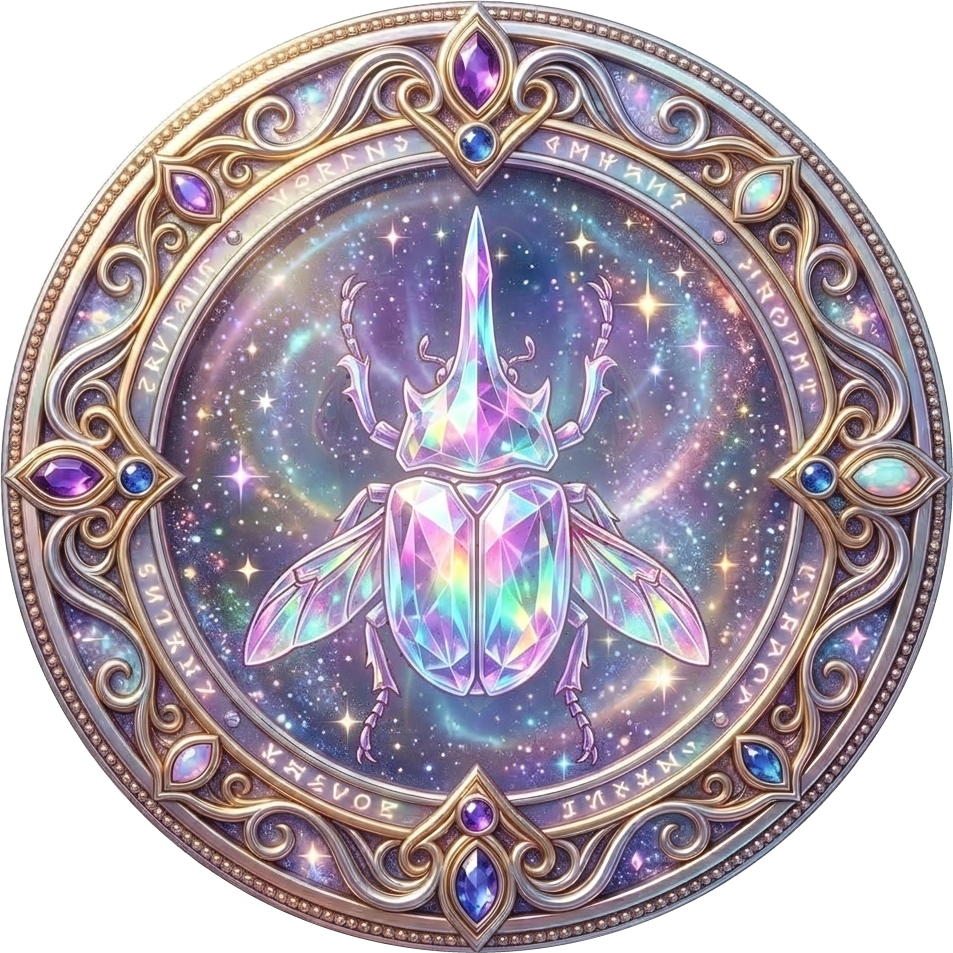
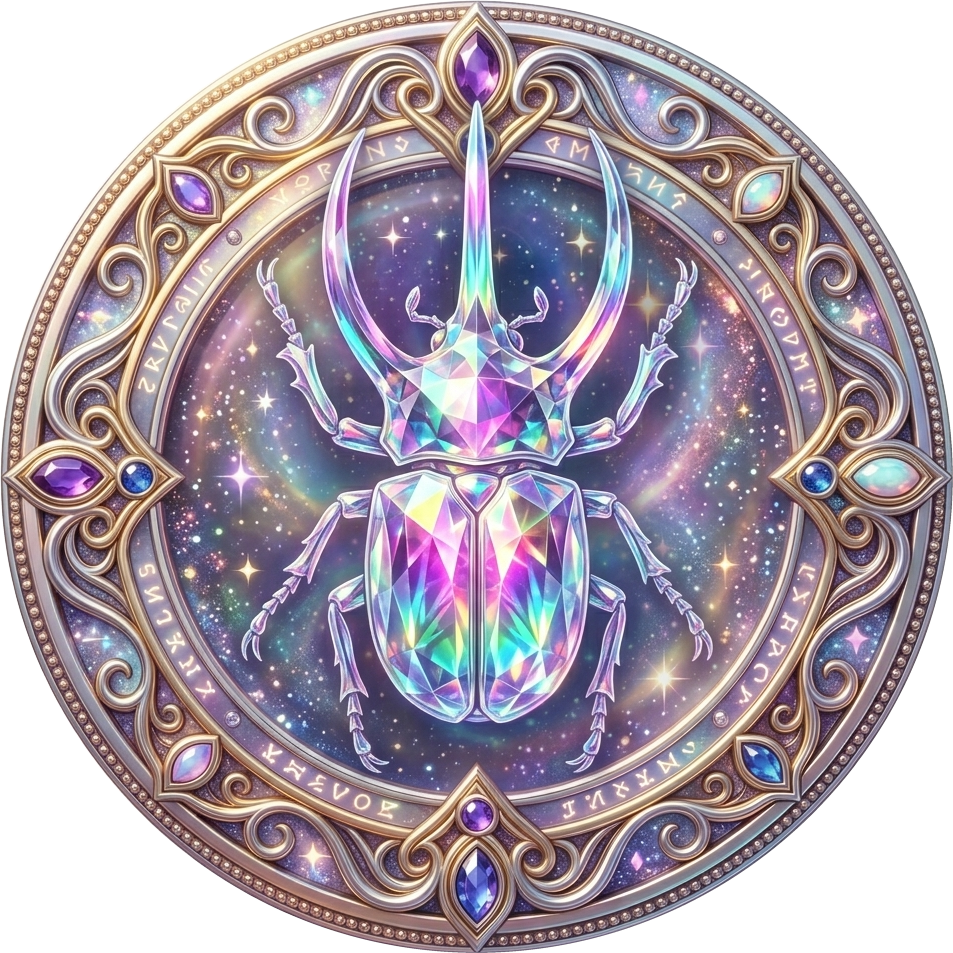
メダルの最上位レアリティを「虹（rainbow）」から「クリスタル（crystal）」に改称
統括が絵を作り直しクリスタル感が出たため、DBの値・画面表記・アセットを
crystalへ統一した。4段階の構成（銅・銀・金・クリスタル）自体は変更なし。
段階解放ロジック（CASE分岐）・CHECK制約を新規マイグレーションで張り替え、
移行対象データが0件であることをガードで機械的に確認する設計にした。
rainbowアセット12枚は削除し、内容が同一であることを確認済みのcrystal側を残した。

詳細: 開発部/成果物/実装メモ.md 173章

diff --git a/src/components/StickerIcon.tsx b/src/components/StickerIcon.tsx
@@ -6,6 +6,11 @@
  * （統括判断）。コンポーネント名・DBの`sticker_key`・本コメントの「シール」
  * 「ステッカー」はそのまま変更していない。
  *
+ * [2026-09-08改訂・本部長／実装メモ173章] 最上位レアリティの呼び名を統括判断で
+ * 「虹（rainbow）」から「クリスタル（crystal）」に改称した（絵を作り直したことで
+ * クリスタル感が出たため）。アセットファイル名（`*_rainbow.png`）も`*_crystal.png`に
+ * 差し替えた（旧`*_rainbow.png`はリポジトリから削除、内容はcrystal側と同一だった）。
+ *
  * [2026-09-10改訂・実装メモ149章] 従来は`react-native-svg`による自前描画
  * （形とレアリティのグラデーションをコードで組み立てる方式）だったが、統括提供の
  * 完成画像（`assets/stickers/`、12種×2解像度）へ差し替えた。理由・変更点は
@@ -40,8 +45,8 @@ import beetleSilverFull from "../../assets/stickers/beetle_silver.png";
 import beetleSilverSm from "../../assets/stickers/beetle_silver@sm.png";
 import beetleGoldFull from "../../assets/stickers/beetle_gold.png";
 import beetleGoldSm from "../../assets/stickers/beetle_gold@sm.png";
-import beetleRainbowFull from "../../assets/stickers/beetle_rainbow.png";
-import beetleRainbowSm from "../../assets/stickers/beetle_rainbow@sm.png";
+import beetleCrystalFull from "../../assets/stickers/beetle_crystal.png";
+import beetleCrystalSm from "../../assets/stickers/beetle_crystal@sm.png";
 
 import butterflyBronzeFull from "../../assets/stickers/butterfly_bronze.png";
 import butterflyBronzeSm from "../../assets/stickers/butterfly_bronze@sm.png";
@@ -49,8 +54,8 @@ import butterflySilverFull from "../../assets/stickers/butterfly_silver.png";
 import butterflySilverSm from "../../assets/stickers/butterfly_silver@sm.png";
 import butterflyGoldFull from "../../assets/stickers/butterfly_gold.png";
 import butterflyGoldSm from "../../assets/stickers/butterfly_gold@sm.png";
-import butterflyRainbowFull from "../../assets/stickers/butterfly_rainbow.png";
-import butterflyRainbowSm from "../../assets/stickers/butterfly_rainbow@sm.png";
+import butterflyCrystalFull from "../../assets/stickers/butterfly_crystal.png";
+import butterflyCrystalSm from "../../assets/stickers/butterfly_crystal@sm.png";
 
 import flowerBronzeFull from "../../assets/stickers/flower_bronze.png";
 import flowerBronzeSm from "../../assets/stickers/flower_bronze@sm.png";
@@ -58,27 +63,27 @@ import flowerSilverFull from "../../assets/stickers/flower_silver.png";
 import flowerSilverSm from "../../assets/stickers/flower_silver@sm.png";
 import flowerGoldFull from "../../assets/stickers/flower_gold.png";
 import flowerGoldSm from "../../assets/stickers/flower_gold@sm.png";
-import flowerRainbowFull from "../../assets/stickers/flower_rainbow.png";
-import flowerRainbowSm from "../../assets/stickers/flower_rainbow@sm.png";
+import flowerCrystalFull from "../../assets/stickers/flower_crystal.png";
+import flowerCrystalSm from "../../assets/stickers/flower_crystal@sm.png";
 
 const STICKER_IMAGES: Record<StickerShape, Record<StickerRarity, { full: typeof beetleBronzeFull; sm: typeof beetleBronzeSm }>> = {
   beetle: {
     bronze: { full: beetleBronzeFull, sm: beetleBronzeSm },
     silver: { full: beetleSilverFull, sm: beetleSilverSm },
     gold: { full: beetleGoldFull, sm: beetleGoldSm },
-    rainbow: { full: beetleRainbowFull, sm: beetleRainbowSm },
+    crystal: { full: beetleCrystalFull, sm: beetleCrystalSm },
   },
   butterfly: {
     bronze: { full: butterflyBronzeFull, sm: butterflyBronzeSm },
     silver: { full: butterflySilverFull, sm: butterflySilverSm },
     gold: { full: butterflyGoldFull, sm: butterflyGoldSm },
-    rainbow: { full: butterflyRainbowFull, sm: butterflyRainbowSm },
+    crystal: { full: butterflyCrystalFull, sm: butterflyCrystalSm },
   },
   flower: {
     bronze: { full: flowerBronzeFull, sm: flowerBronzeSm },
     silver: { full: flowerSilverFull, sm: flowerSilverSm },
     gold: { full: flowerGoldFull, sm: flowerGoldSm },
-    rainbow: { full: flowerRainbowFull, sm: flowerRainbowSm },
+    crystal: { full: flowerCrystalFull, sm: flowerCrystalSm },
   },
 };
 

diff --git a/src/components/StickerShopPanel.tsx b/src/components/StickerShopPanel.tsx
@@ -10,7 +10,7 @@
  * [2026-09-08改訂・要件定義書07-19-14章「決定32〜38」・決定39・
  * UIUXデザイン部/成果物/主要画面ワイヤーフレーム.md 32.0b節・32.1節、
  * 開発部/成果物/実装メモ.md 161章]
- * メダルの段階購入制（形ごとに銅→銀→金→虹の順でしか買えない。解放条件は
+ * メダルの段階購入制（形ごとに銅→銀→金→クリスタルの順でしか買えない。解放条件は
  * 家族の誰かの過去購入実績、決定32・33）を導入した。あわせて統括判断（決定39）
  * により月次の購入上限は完全に撤廃されたため、旧`purchasedCatalogIdsThisMonth`
  * （2026-09-09改訂、143章）は廃止し、`lockedCatalogIds`（家族解放待ちの
@@ -23,6 +23,12 @@
  * [2026-09-07改訂・本部長／実装メモ152章] 画面に出す呼び名は「メダル」に統一した
  * （統括判断）。DBの`sticker_key`・本コンポーネント名・コメント中の「シール」
  * 「ステッカー」はそのまま変更していない。
+ *
+ * [2026-09-08改訂・本部長／実装メモ173章] 最上位レアリティの呼び名を統括判断で
+ * 「虹」から「クリスタル」に改称した。子ども向け・大人向けとも表記は
+ * 「クリスタル」で統一する（銅／銀／金は漢字とひらがな読みで書き分けているが、
+ * 「クリスタル」は外来語で自然なひらがな表記が無いため、そのままカタカナで
+ * 統一するのが理由。実装メモ173章参照）。
  *
  * [2026-09-08改訂・本部長（実機確認より）／実装メモ164章] 未開放マスに説明文
  * （旧・32.0b節決定28の3ロール文言テンプレート）を並べると同じ説明が縦に最大3つ
@@ -55,7 +61,7 @@ const rarityLabel: Record<StickerRarity, { child: string; parent: string }> = {
   bronze: { child: "どう", parent: "銅" },
   silver: { child: "ぎん", parent: "銀" },
   gold: { child: "きん", parent: "金" },
-  rainbow: { child: "にじ", parent: "虹" },
+  crystal: { child: "クリスタル", parent: "クリスタル" },
 };
 
 /**
@@ -67,7 +73,7 @@ const requiredLowerRarity: Record<StickerRarity, StickerRarity | null> = {
   bronze: null,
   silver: "bronze",
   gold: "silver",
-  rainbow: "gold",
+  crystal: "gold",
 };
 
 /**
@@ -187,7 +193,7 @@ export function StickerShopPanel({
                 const disabled = locked;
                 return (
                   <React.Fragment key={item.id}>
-                    {/* [32.0b節決定31] 段階の順序（銅→銀→金→虹）をセル間の矢印で明示する。
+                    {/* [32.0b節決定31] 段階の順序（銅→銀→金→クリスタル）をセル間の矢印で明示する。
                         ナビゲーション目的ではなく順序の可視化のみのため、
                         スクリーンリーダーには読み上げさせない。 */}
                     {index > 0 && (

diff --git a/src/theme/theme.ts b/src/theme/theme.ts
@@ -317,12 +317,15 @@ export const gachaPlateSize = {
 
 // ---- 1.11 木を飾るステッカー（`sticker-*`、2026-09-07追加、07-19-9a章対応） ----
 // 参照: デザイントークン.md 1.11節。形3種（beetle/butterfly/flower）×レアリティ4段
-// （bronze/silver/gold/rainbow）＝12種類。レアリティは大きさではなく色・質感のみで
+// （bronze/silver/gold/crystal）＝12種類。レアリティは大きさではなく色・質感のみで
 // 表現し、12種類とも表示直径は同一。
+// [2026-09-08改訂・本部長／実装メモ173章] 最上位レアリティの呼び名を統括判断で
+// 「虹（rainbow）」から「クリスタル（crystal）」に改称した（絵を作り直したことで
+// クリスタル感が出たため）。4段階の構成自体は変わらない。
 export const stickerShapes = ["beetle", "butterfly", "flower"] as const;
 export type StickerShape = (typeof stickerShapes)[number];
 
-export const stickerRarities = ["bronze", "silver", "gold", "rainbow"] as const;
+export const stickerRarities = ["bronze", "silver", "gold", "crystal"] as const;
 export type StickerRarity = (typeof stickerRarities)[number];
 
 /**

diff --git a/src/data/api.ts b/src/data/api.ts
@@ -1528,7 +1528,7 @@ export interface FamilyTreeStickerPlacement {
   avatarColor: string | null;
   stickerPurchaseId: string;
   shape: "beetle" | "butterfly" | "flower";
-  rarity: "bronze" | "silver" | "gold" | "rainbow";
+  rarity: "bronze" | "silver" | "gold" | "crystal";
   stickerKey: string;
   displayName: string;
 }
@@ -1682,7 +1682,7 @@ export async function fetchFamilyTreeStickerPlacements(
       family_members: { avatar_color: string | null } | null;
       sticker_catalog: {
         shape: "beetle" | "butterfly" | "flower";
-        rarity: "bronze" | "silver" | "gold" | "rainbow";
+        rarity: "bronze" | "silver" | "gold" | "crystal";
         sticker_key: string;
         display_name: string;
       } | null;

diff --git a/src/components/CollectorShelfPanel.tsx b/src/components/CollectorShelfPanel.tsx
@@ -59,7 +59,9 @@ const stickerRarityLabel: Record<StickerRarity, { child: string; parent: string 
   bronze: { child: "どう", parent: "銅" },
   silver: { child: "ぎん", parent: "銀" },
   gold: { child: "きん", parent: "金" },
-  rainbow: { child: "にじ", parent: "虹" },
+  // [2026-09-08改訂・本部長／実装メモ173章] 統括判断で「虹」から「クリスタル」に
+  // 改称（StickerShopPanel.tsxと同じ表記統一の理由）。
+  crystal: { child: "クリスタル", parent: "クリスタル" },
 };
 
 export interface CollectorShelfPanelProps {

diff --git a/src/types/domain.ts b/src/types/domain.ts
@@ -523,7 +523,7 @@ export interface FamilyBoardReactionWithPostBody extends FamilyBoardReaction {
 export interface StickerCatalogItem {
   id: string;
   shape: "beetle" | "butterfly" | "flower";
-  rarity: "bronze" | "silver" | "gold" | "rainbow";
+  rarity: "bronze" | "silver" | "gold" | "crystal";
   sticker_key: string;
   display_name: string;
   points_cost: number;

diff --git a/src/hooks/useStickers.ts b/src/hooks/useStickers.ts
@@ -193,7 +193,9 @@ const requiredLowerRarity: Record<string, string | null> = {
   bronze: null,
   silver: "bronze",
   gold: "silver",
-  rainbow: "gold",
+  // [2026-09-08改訂・本部長／実装メモ173章] 統括判断で「虹」から「クリスタル」に
+  // 改称（StickerShopPanel.tsxと同じ表）。
+  crystal: "gold",
 };
 
 /**
